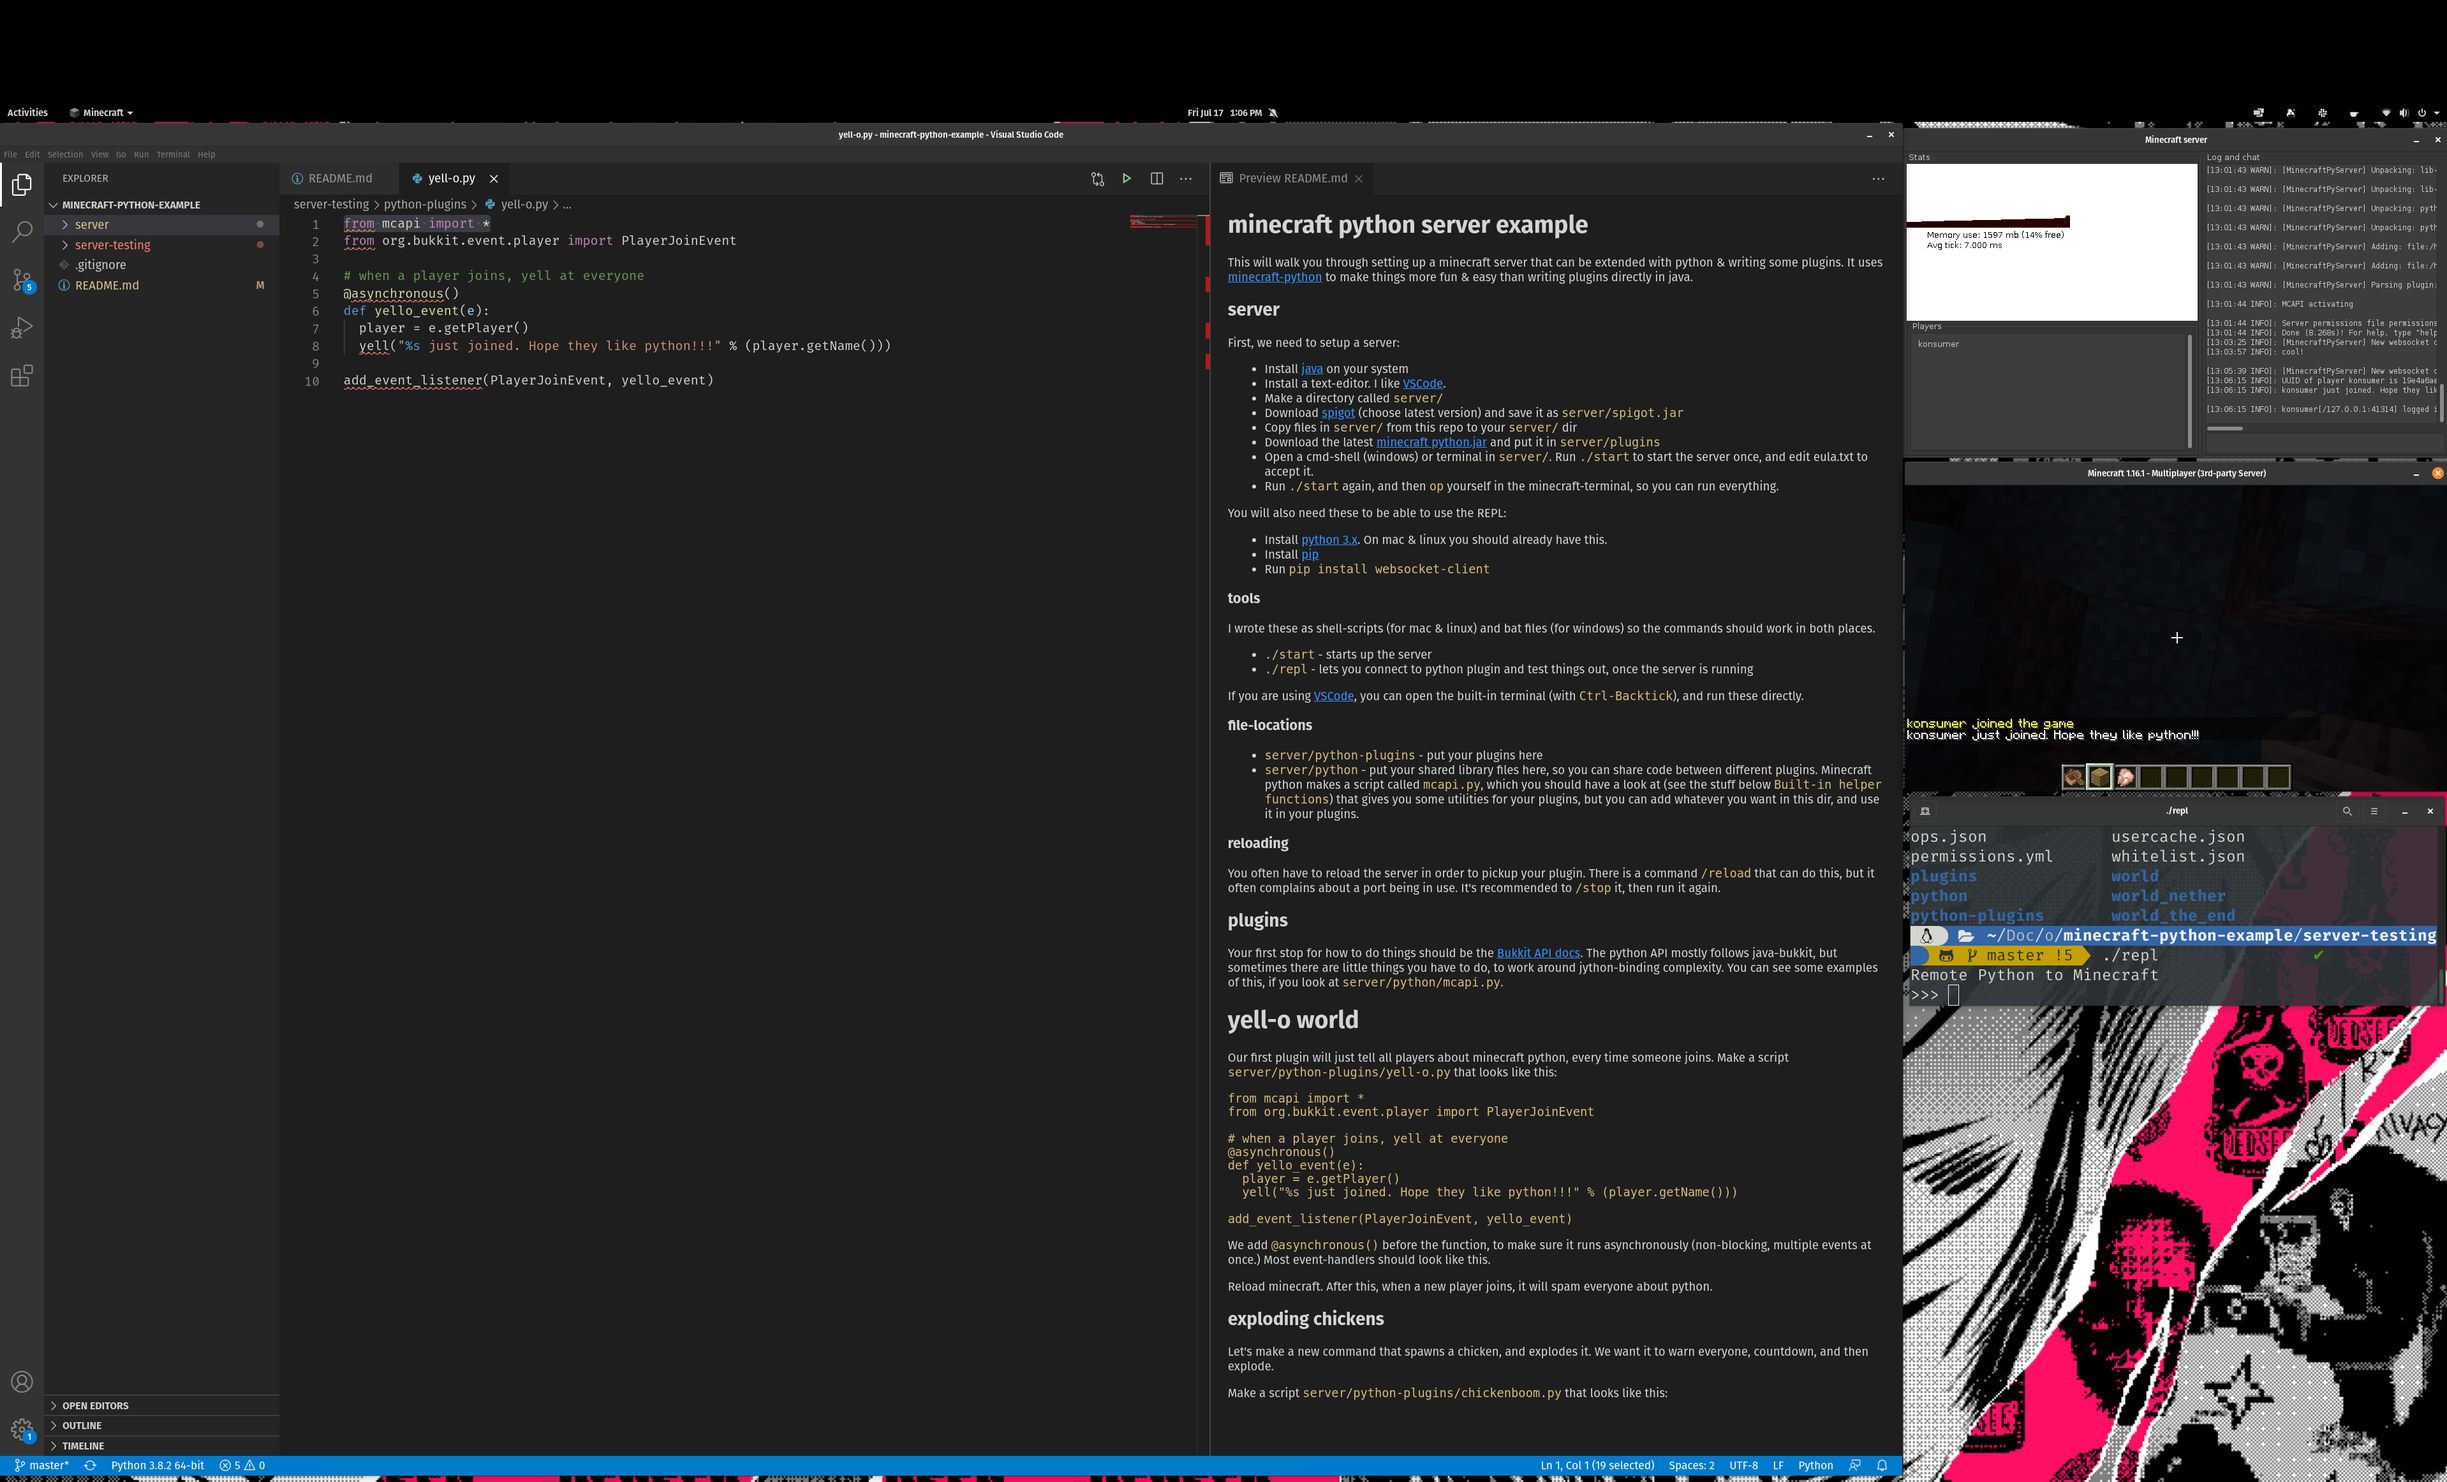
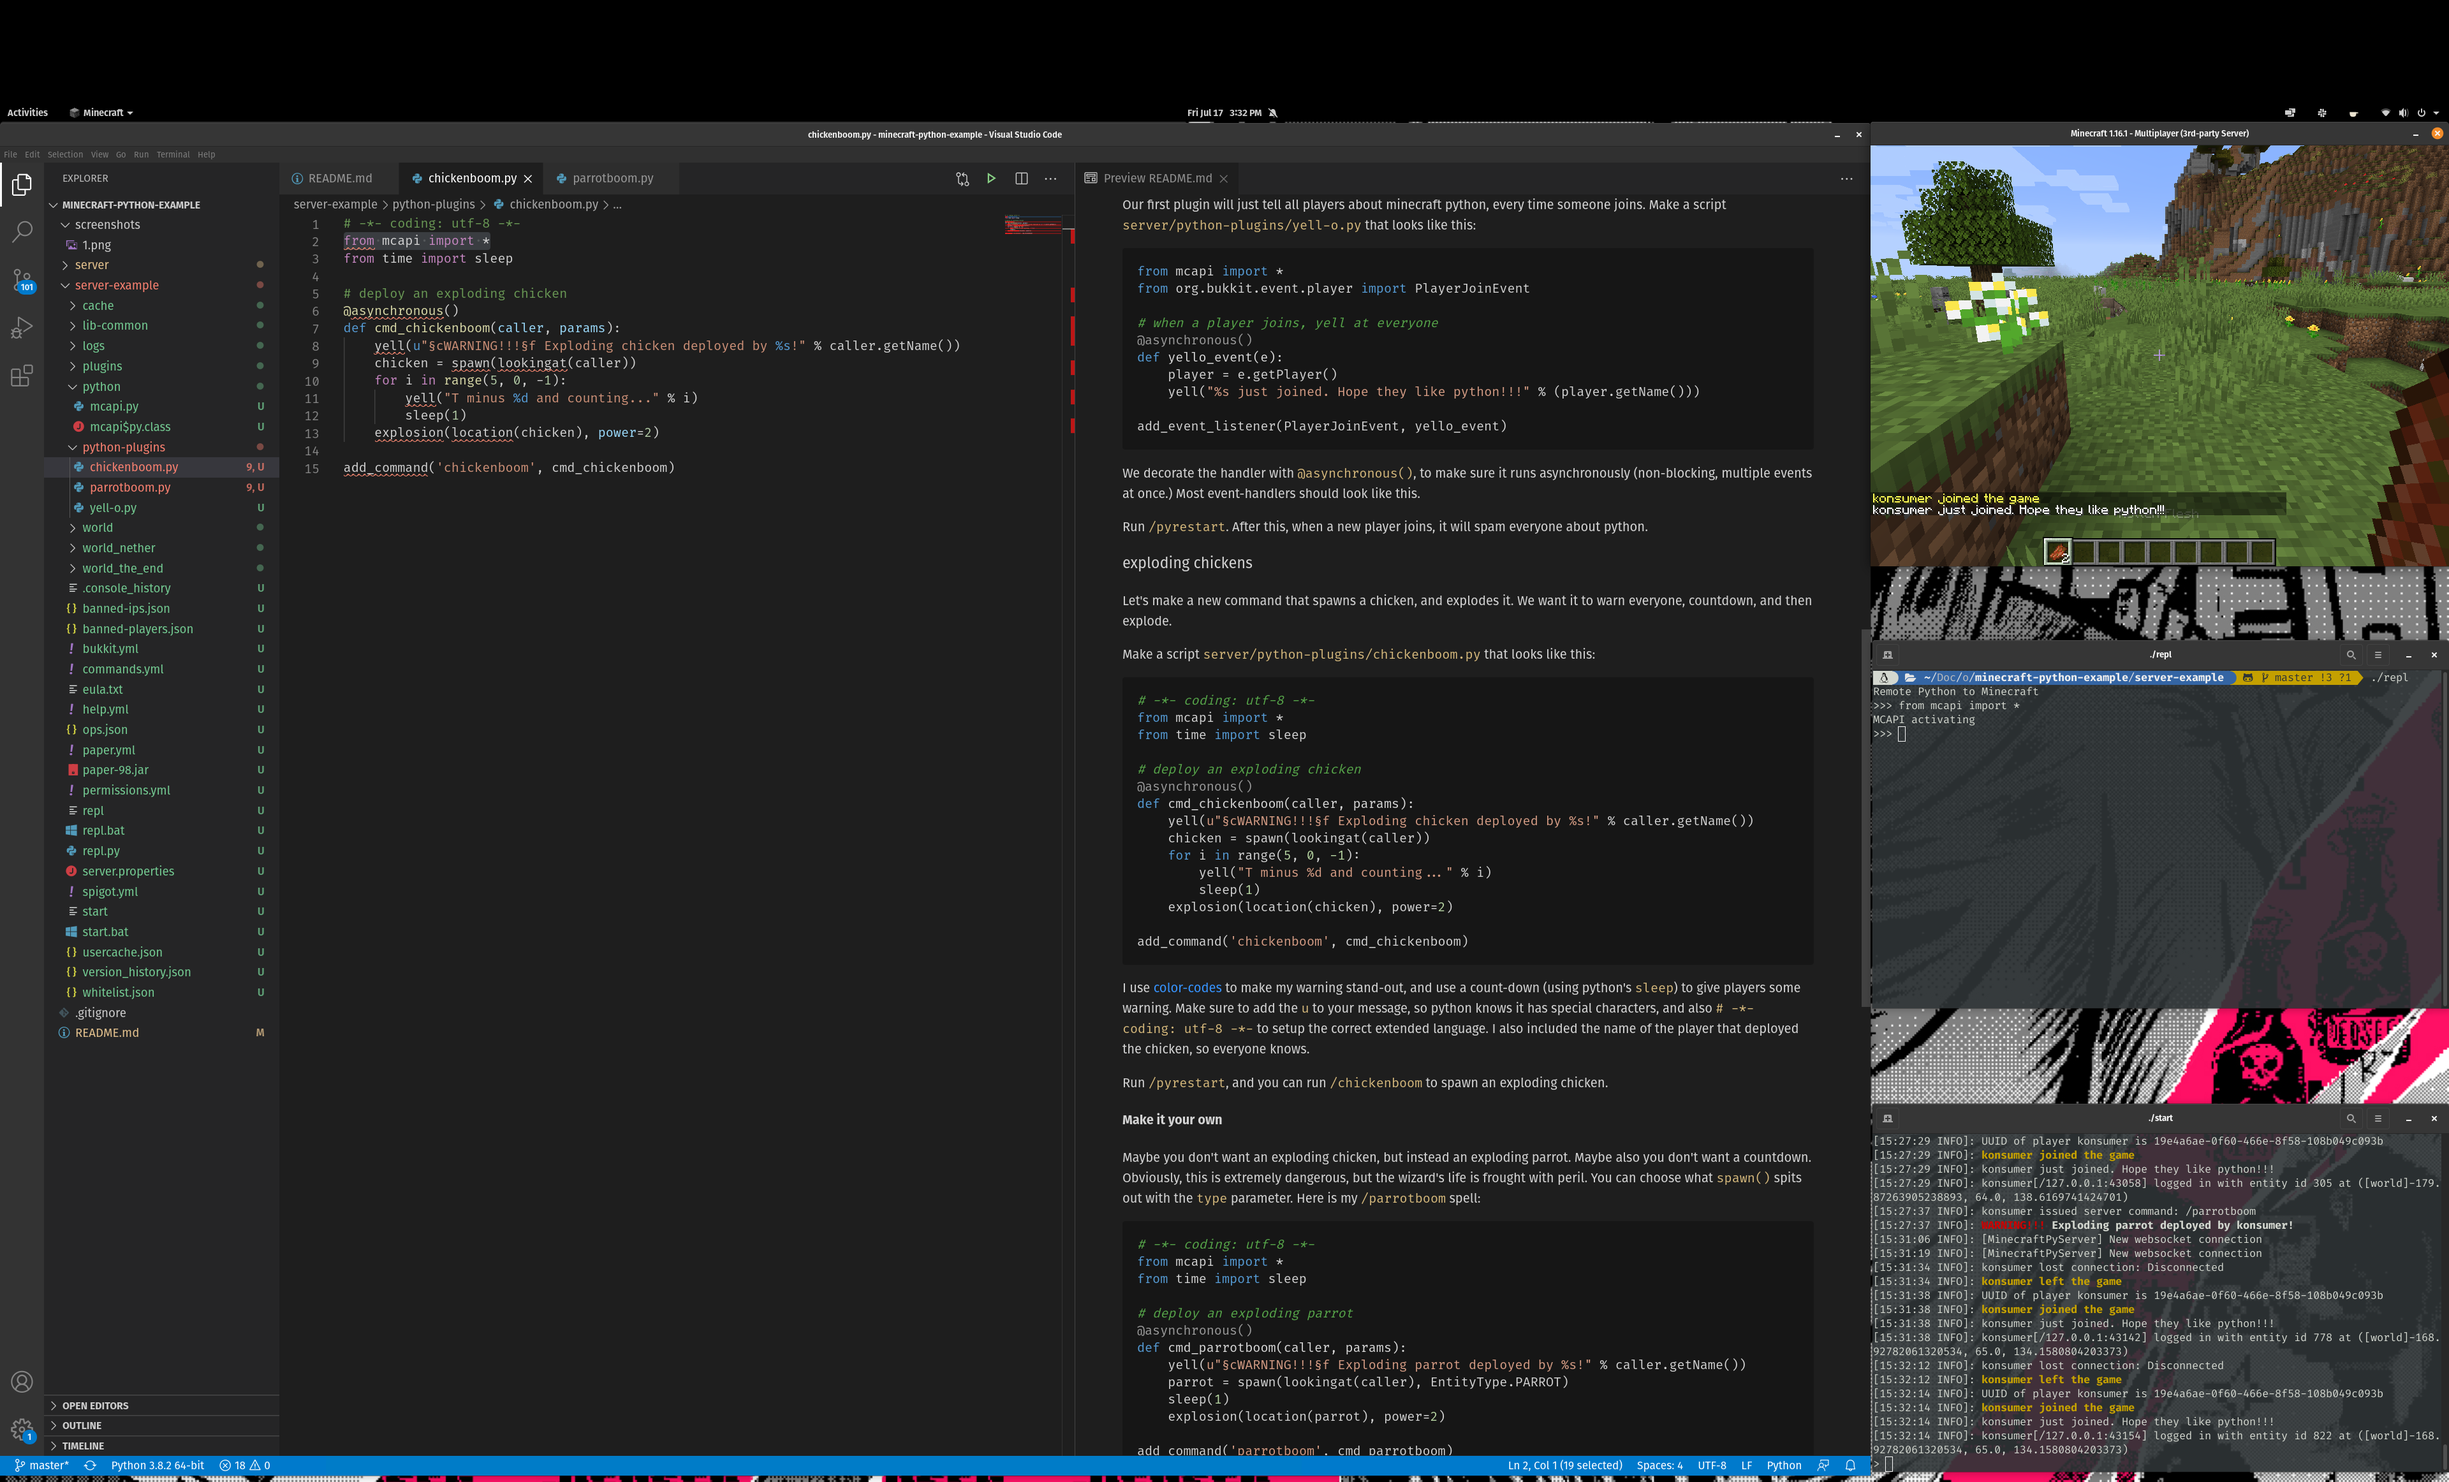
more tutorials

diff --git a/README.md b/README.md
@@ -9,9 +9,9 @@ This will walk you through setting up a minecraft server that can be extended wi
 First, we need to setup a server:
 
 * Install [java](https://www.java.com/ES/download/) on your system
-* Install a text-editor. I like [VSCode](https://code.visualstudio.com/).
+* Install a text-editor. I like [VSCode](https://code.visualstudio.com/). I also liek to install `Python` and `Python Indent` extensions.
 * Make a directory called `server/`
-* Download [spigot](https://getbukkit.org/download/spigot) (choose latest version) and save it as `server/spigot.jar`
+* Download [paper](https://papermc.io/downloads) (choose latest version) and save it in `server/`
 * Copy files in `server/` from this repo to your `server/` dir
 * Open a cmd-shell (windows) or terminal in `server/`. Run `./start` to start the server once, and edit eula.txt to accept it.
 * Download the latest [minecraft python.jar](https://github.com/Macuyiko/minecraft-python/releases) and put it in `server/plugins`
@@ -39,16 +39,11 @@ If you are using [VSCode](https://code.visualstudio.com/), you can open the buil
 * `server/python-plugins` - put your plugins here
 * `server/python` - put your shared library files here, so you can share code between different plugins. Minecraft python makes a script called `mcapi.py`, which you should have a look at (see the stuff below `Built-in helper functions`) that gives you some utilities for your plugins, but you can add whatever you want in this dir, and use it in your plugins.
 
-### reloading
-
-You often have to reload the server in order to pickup your plugin. There is a command `/reload` that can do this, but it often complains about a port being in use. It's recommended to `/stop` it, then run it again.
-
-
 ## plugins
 
 Your first goto-reference for how to do things should be the [Bukkit API docs](https://hub.spigotmc.org/javadocs/bukkit/index.html). The python API mostly follows java-bukkit, but sometimes there are little things you have to do, to work around jython-binding complexity. You can see some examples of this, if you look at `server/python/mcapi.py`.
 
-# yell-o world
+### yell-o world
 
 Our first plugin will just tell all players about minecraft python, every time someone joins. Make a script `server/python-plugins/yell-o.py` that looks like this:
 
@@ -59,19 +54,119 @@ from org.bukkit.event.player import PlayerJoinEvent
 # when a player joins, yell at everyone
 @asynchronous()
 def yello_event(e):
-  player = e.getPlayer()
-  yell("%s just joined. Hope they like python!!!" % (player.getName()))
+    player = e.getPlayer()
+    yell("%s just joined. Hope they like python!!!" % (player.getName()))
 
 add_event_listener(PlayerJoinEvent, yello_event)
 ```
 
 We decorate the handler with `@asynchronous()`, to make sure it runs asynchronously (non-blocking, multiple events at once.) Most event-handlers should look like this.
 
-Reload minecraft. After this, when a new player joins, it will spam everyone about python. 
+Run `/pyrestart`. After this, when a new player joins, it will spam everyone about python. 
 
 
-## exploding chickens
+### exploding chickens
 
 Let's make a new command that spawns a chicken, and explodes it. We want it to warn everyone, countdown, and then explode.
 
 Make a script `server/python-plugins/chickenboom.py` that looks like this:
+
+```python
+# -*- coding: utf-8 -*-
+from mcapi import *
+from time import sleep
+
+# deploy an exploding chicken
+@asynchronous()
+def cmd_chickenboom(caller, params):
+    yell(u"§cWARNING!!!§f Exploding chicken deployed by %s!" % caller.getName())
+    chicken = spawn(lookingat(caller))
+    for i in range(5, 0, -1):
+        yell("T minus %d and counting..." % i)
+        sleep(1)
+    explosion(location(chicken), power=2)
+
+add_command('chickenboom', cmd_chickenboom)
+```
+
+I use [color-codes](https://www.digminecraft.com/lists/color_list_pc.php) to make my warning stand-out, and use a count-down (using python's `sleep`) to give players some warning. Make sure to add the `u` to your message, so python knows it has special characters, and also `# -*- coding: utf-8 -*-` to setup the correct extended language. I also included the name of the player that deployed the chicken, so everyone knows.
+
+Run `/pyrestart`, and you can run `/chickenboom` to spawn an exploding chicken.
+
+#### Make it your own
+
+Maybe you don't want an exploding chicken, but instead an exploding parrot. Maybe also you don't want a countdown. Obviously, this is extremely dangerous, but the wizard's life is frought with peril. You can choose what `spawn()` spits out with the `type` parameter. Here is my `/parrotboom` spell:
+
+```python
+# -*- coding: utf-8 -*-
+from mcapi import *
+from time import sleep
+
+# deploy an exploding parrot
+@asynchronous()
+def cmd_parrotboom(caller, params):
+    yell(u"§cWARNING!!!§f Exploding parrot deployed by %s!" % caller.getName())
+    parrot = spawn(lookingat(caller), EntityType.PARROT)
+    sleep(1)
+    explosion(location(parrot), power=2)
+
+add_command('parrotboom', cmd_parrotboom)
+```
+
+I added a `sleep` for 1 second, just so the newly-created parrot has a second to contemplate their existance, before being turned into a bomb.
+
+You can use the REPL to discover other `EntityType`s:
+
+```python
+from mcapi import *
+dir(EntityType)
+```
+
+
+### lightning blocks
+
+Let's make it so whenever a player breaks a block, lightning strikes. Make a file called `server/python-plugins/lightningblock.py`
+
+```python
+from mcapi import *
+from org.bukkit.event.block import BlockBreakEvent
+
+# when a player breaks a block, shoot lightning
+@asynchronous()
+def block_break_event(e):
+    player = e.getPlayer()
+    yell('you break a block, you get lightning %s!' % player.getName())
+    bolt(lookingat(player))
+
+add_event_listener(BlockBreakEvent, block_break_event)
+```
+
+#### fireworks
+
+You can also make it do fireworks:
+
+```python
+from mcapi import *
+from org.bukkit.event.block import BlockBreakEvent
+
+# when a player breaks a block, shoot fireworks
+@asynchronous()
+def block_break_event(e):
+    player = e.getPlayer()
+    yell('you break a block, you get fireworks %s!' % player.getName())
+    fireworks(lookingat(player))
+
+add_event_listener(BlockBreakEvent, block_break_event)
+```
+
+## more to come
+
+I will work out some other tutorials. Here are some ideas:
+
+* Items that do something when wielded
+* Figure out how to chat to just 1 user
+* AI for NPCs
+* Generate a maze
+* build a schematic file
+* Adventure-mode RPG
+* Other ideas?
